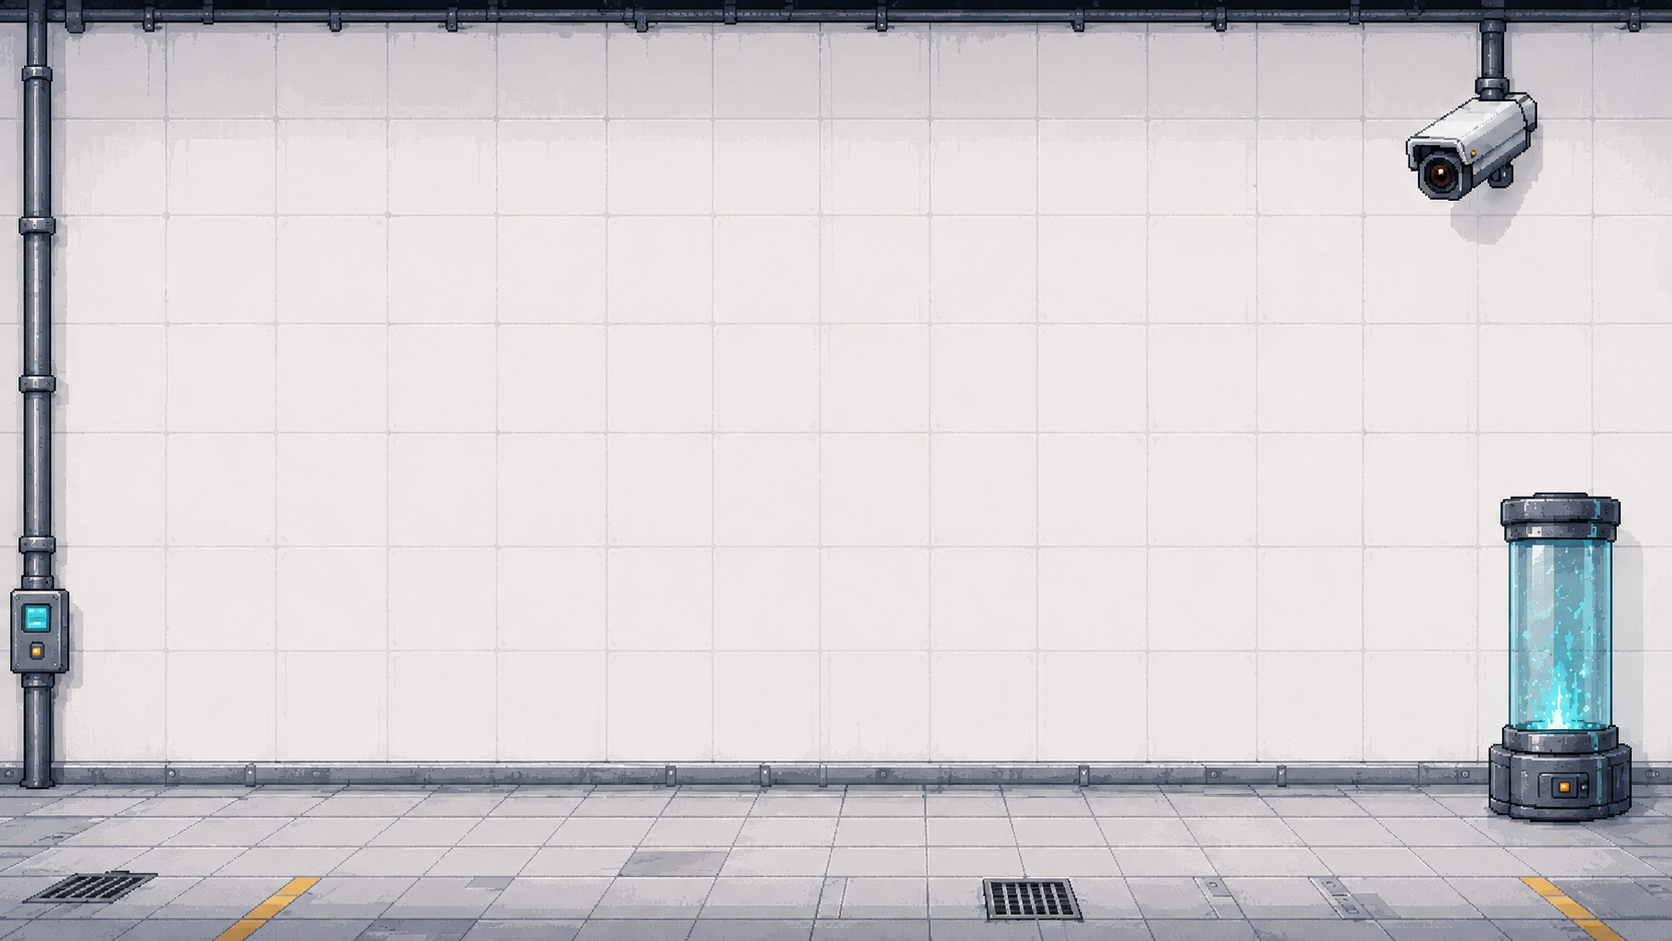
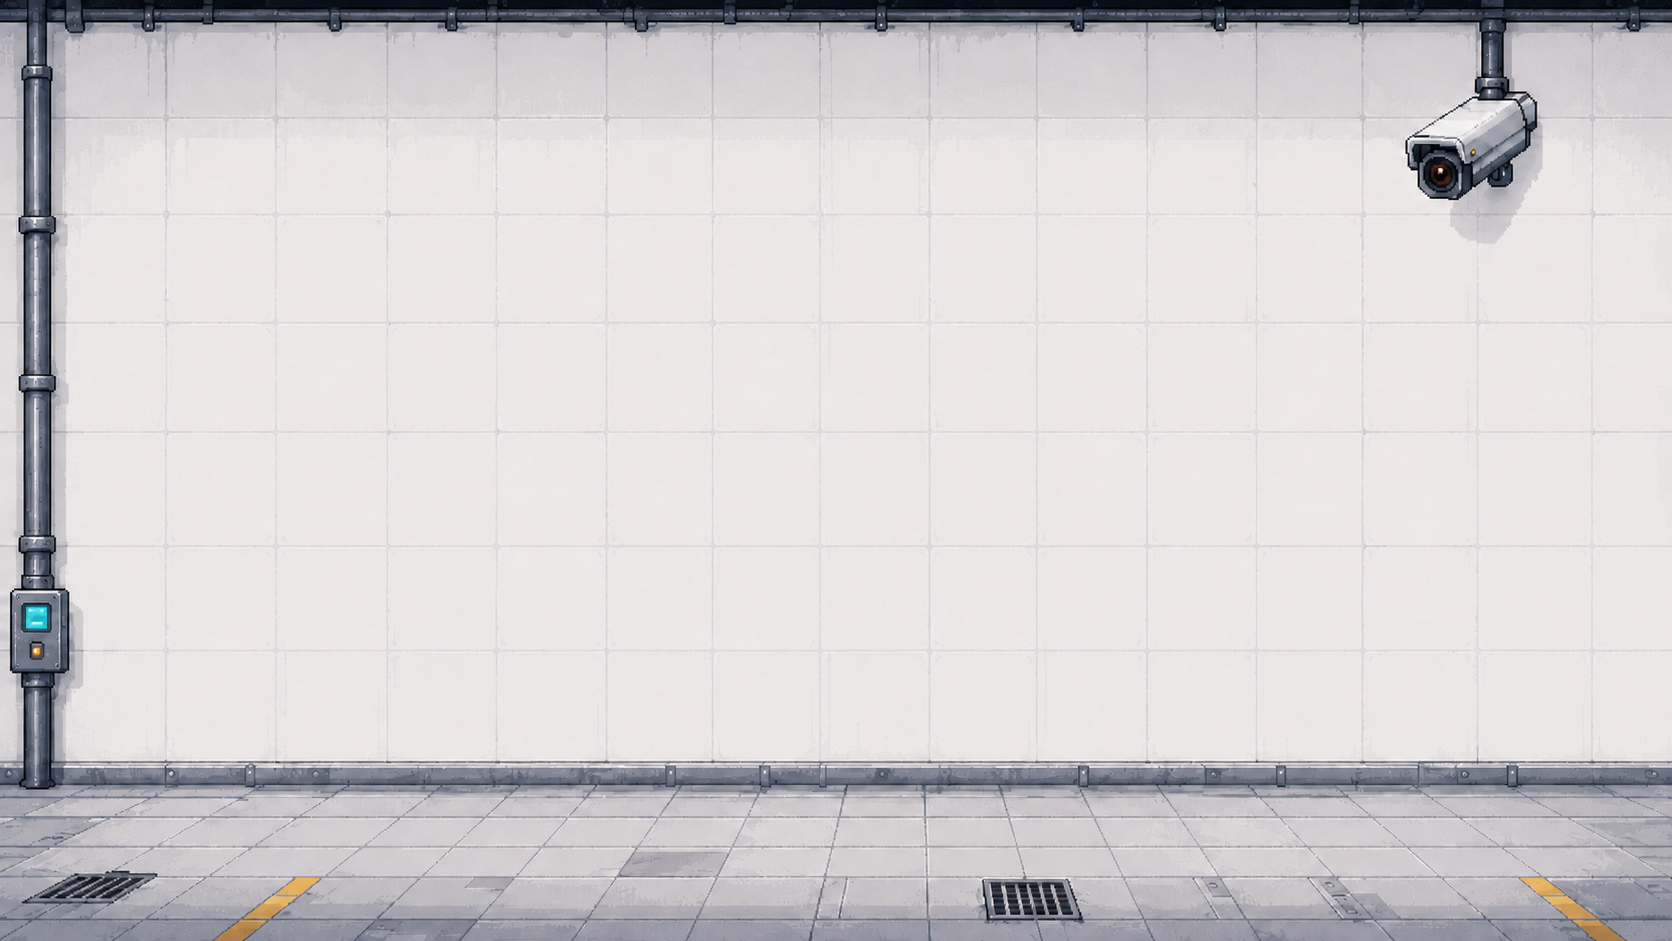
pequeñas mejoras visuales

diff --git a/main.cpp b/main.cpp
@@ -1537,6 +1537,7 @@ void dibujar_icono_objeto(TipoObjetoMenu tipo, float cx, float cy, float escala,
             DrawCircleV({cx, cy}, 5.0f * escala, tint(Color{35, 38, 42, 255}));
             break;
         }
+
         case TipoObjetoMenu::GANCHO: {
             // Eye bolt: aro arriba + cuerpo con rosca abajo
             Color gc = tint(Color{170, 178, 186, 255});
@@ -2377,13 +2378,13 @@ void dibujar_menu_lateral() {
     DrawRectangleRec(tab_dec, menu_tab == 1 ? WHITE : (hover_dec ? ColorAlpha(WHITE, 0.7f) : ColorAlpha(WHITE, 0.4f)));
     
     // Centrar texto OBJETOS
-    Vector2 obj_size = MeasureTextEx(fuente_menu, "OBJETOS", 14, 1);
+    Vector2 obj_size = MeasureTextEx(fuente_menu, "OBJETOS", 17, 1);
 
     Vector2 obj_pos = {tab_obj.x + (tab_obj.width - obj_size.x) / 2 , tab_obj.y + (tab_obj.height - obj_size.y) / 2};
     DrawTextEx(fuente_menu, "OBJETOS", obj_pos, 17, 1, MENU_TEXTO);
     
     // Centrar texto DECORACION
-    Vector2 dec_size = MeasureTextEx(fuente_menu, "DECORACION", 13, 1);
+    Vector2 dec_size = MeasureTextEx(fuente_menu, "DECORACION", 17, 1);
 
     Vector2 dec_pos = {tab_dec.x + (tab_dec.width - dec_size.x) / 2, tab_dec.y + (tab_dec.height - dec_size.y) / 2};
     DrawTextEx(fuente_menu, "DECORACION", dec_pos, 17, 1, MENU_TEXTO);
@@ -3514,11 +3515,11 @@ void cargandoTexturas() {
     tex_vic_bot = cargar_textura_datos("Assets/Victoria/bot.png");
     
     // Cargar fuente personalizada
-    fuente_menu = cargar_fuente_datos("fonts/Gamer.ttf", 32);
+    fuente_menu = cargar_fuente_datos("fonts/alagard.ttf", 32);
     if (fuente_menu.baseSize == 0) {
-        TraceLog(LOG_WARNING, "Fuente Gamer.ttf no encontrada: usando fuente por defecto");
+        TraceLog(LOG_WARNING, "Fuente Alagard.ttf no encontrada: usando fuente por defecto");
     } else {
-        TraceLog(LOG_INFO, "Fuente Gamer.ttf cargada correctamente");
+        TraceLog(LOG_INFO, "Fuente Alagard.ttf cargada correctamente");
     }
 
 }
@@ -3644,7 +3645,7 @@ void dibujar_menu_principal(MotorFisica& motor) {
 
     // Dibujar personaje animado Jose
     if (anim_menu_jose) {
-        Vector2 pos_dibujo = { pos_x_anim_jose - 400, ALTO * 0.65f + 150.0f - 50};
+        Vector2 pos_dibujo = { pos_x_anim_jose - 400, ALTO * 0.65f + 150.0f - 30};
         anim_menu_jose->dibujar(pos_dibujo, 110.0f * 1.5f, 200.0f * 1.5f);
     }
 
@@ -3656,7 +3657,7 @@ void dibujar_menu_principal(MotorFisica& motor) {
 
     // Dibujar personaje animado Manuel
     if (anim_menu_inicio) {
-        Vector2 pos_dibujo = { pos_x_anim_menu - 300 , ALTO * 0.65f + 150.0f - 50 };
+        Vector2 pos_dibujo = { pos_x_anim_menu - 300 , ALTO * 0.65f + 150.0f - 30  };
         anim_menu_inicio->dibujar(pos_dibujo, 110.0f * 1.5f + 50, 200.0f * 1.5f + 50);
     }
 
@@ -3987,7 +3988,7 @@ void dibujar_seleccion_niveles(MotorFisica& motor) {
             DrawRectangleRec(btn_rect, Color{ 255, 255, 255, 30 });
         }
         
-        Color text_color = is_active ? WHITE : (hover ? LIGHTGRAY : Color{ 180, 180, 200, 255 });
+        Color text_color = is_active ? BLACK : (hover ? LIGHTGRAY : Color{ 180, 180, 200, 255 });
         Vector2 text_size = MeasureTextEx(fuente_menu, tabs[i].label, 20.0f, 1.0f);
         DrawTextEx(fuente_menu, tabs[i].label, { btn_rect.x + 15.0f, btn_rect.y + (btn_rect.height - text_size.y)/2.0f }, 20.0f, 1.0f, text_color);
     }
@@ -5385,7 +5386,7 @@ void dibujar_juego_core(MotorFisica& motor, bool es_modo_nivel) {
         
         const char* txt_tiempo = TextFormat("%02d:%02d.%02d", min, seg, ms);
         Vector2 ts_time = MeasureTextEx(fuente_menu, txt_tiempo, 16, 1);
-        DrawTextEx(fuente_menu, txt_tiempo, {715 + (180 - ts_time.x)/2.0f, 970 + (35 - ts_time.y)/2.0f}, 54, 9, WHITE);
+        DrawTextEx(fuente_menu, txt_tiempo, {715 + (180 - ts_time.x)/2.0f, 1040 + (35 - ts_time.y)/2.0f}, 54, 9, WHITE);
     }
 
     BotonesHUD btns = calcular_rectangulos_botones_hud();
@@ -5452,7 +5453,7 @@ void dibujar_juego_core(MotorFisica& motor, bool es_modo_nivel) {
     if (mostrar_ayuda_overlay) {
         DrawRectangle(0, 0, ANCHO, ALTO, ColorAlpha(BLACK, 0.6f));
         
-        float w = 600.0f;
+        float w = 800.0f;
         float h = 400.0f;
         Rectangle box = {(ANCHO - w)/2.0f, (ALTO - h)/2.0f, w, h};
         
@@ -5502,15 +5503,14 @@ void dibujar_juego_core(MotorFisica& motor, bool es_modo_nivel) {
             DrawTextEx(fuente_menu, key, {x_offset, y}, 18, 1, Color{210, 110, 5, 255});
             DrawTextEx(fuente_menu, desc, {x_offset + 145.0f, y}, 18, 1, Color{60, 62, 65, 255});
         };
-        
         draw_help_line("Objetivo:", "Coloca objetos para que la pelota llegue a la zona meta.", start_y, box.x + 30.0f);
         draw_help_line("Arrastrar:", "Arrastra objetos del menu lateral al canvas.", start_y + dy, box.x + 30.0f);
         draw_help_line("Mover:", "Haz click izquierdo en un objeto y arrastralo.", start_y + dy * 2, box.x + 30.0f);
         draw_help_line("Rotar / Tamano:", "F: rotar/invertir. T: alternar tamano de rampas.", start_y + dy * 3, box.x + 30.0f);
-        draw_help_line("Borrar (SUPR/X):", "Selecciona un objeto y presiona X o SUPR para eliminarlo.", start_y + dy * 4, box.x + 30.0f);
+        draw_help_line("Borrar:", "Selecciona un objeto y presiona X o SUPR para eliminarlo.", start_y + dy * 4, box.x + 30.0f);
         draw_help_line("Simulacion:", "Presiona ESPACIO para correr o pausar la fisica.", start_y + dy * 5, box.x + 30.0f);
         draw_help_line("Menu Lateral:", "Presiona TAB para ocultar/mostrar el catalogo de objetos.", start_y + dy * 6, box.x + 30.0f);
-        draw_help_line("Reiniciar (R):", "Presiona R para limpiar el nivel y reiniciar.", start_y + dy * 7, box.x + 30.0f);
+        draw_help_line("Reiniciar:", "Presiona R para limpiar el nivel y reiniciar.", start_y + dy * 7, box.x + 30.0f);
         
         DrawTextEx(fuente_menu, "Haz click en 'X' o fuera de este panel para cerrar.", {box.x + 30.0f, box.y + h - 35.0f}, 14, 1, Color{120, 122, 125, 255});
     }